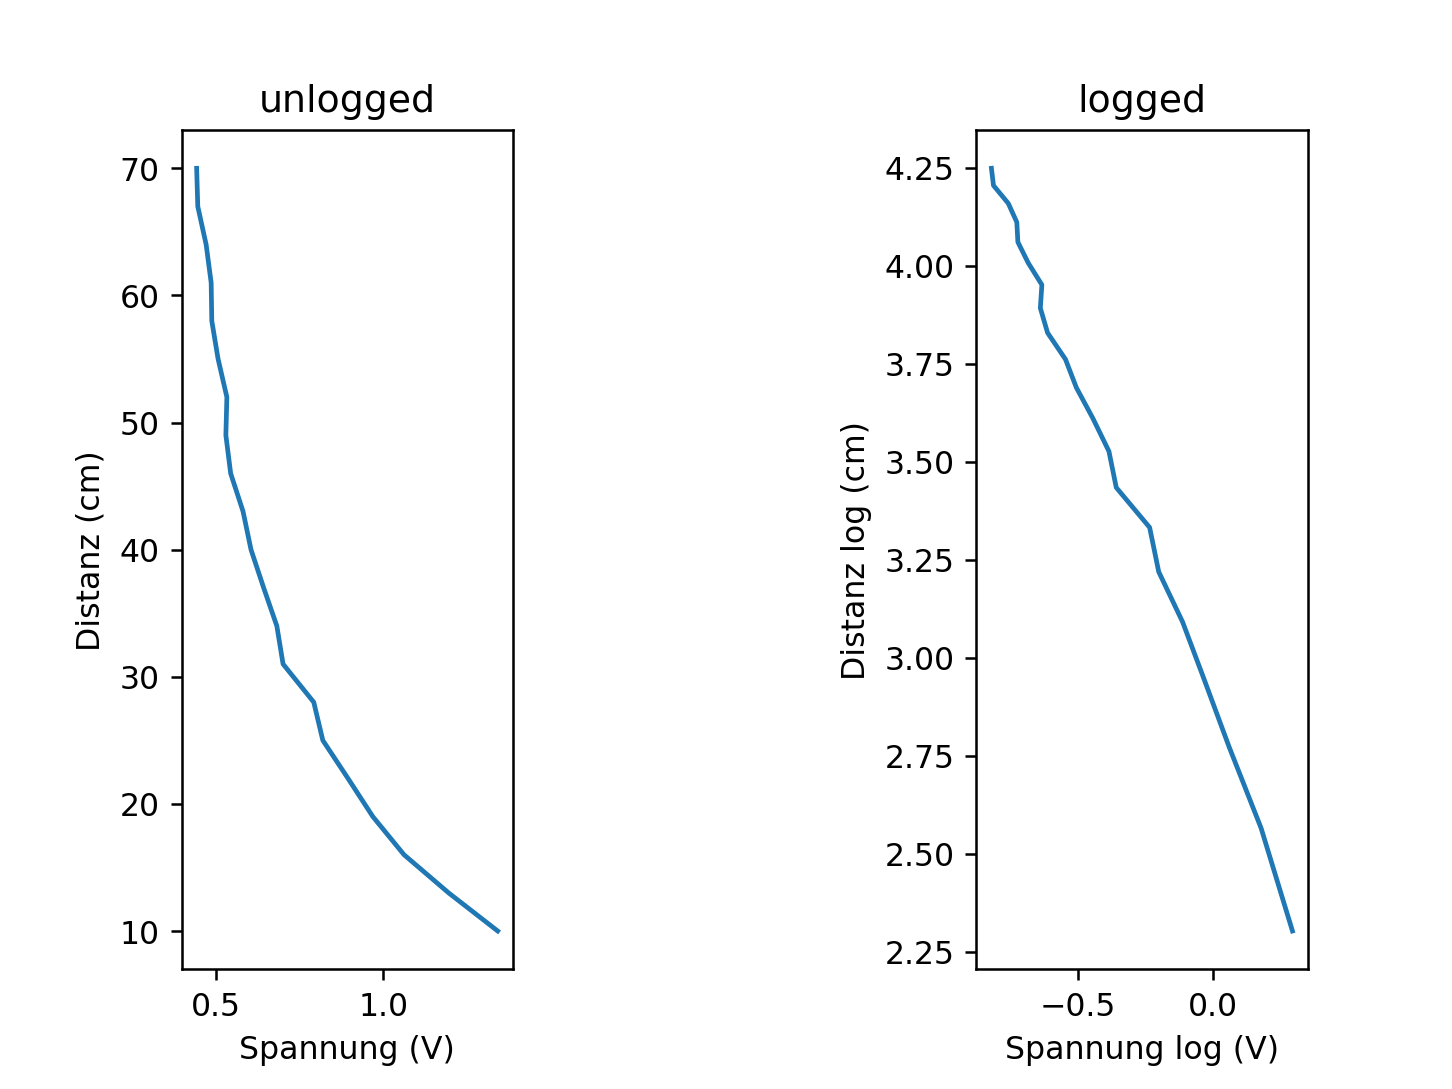
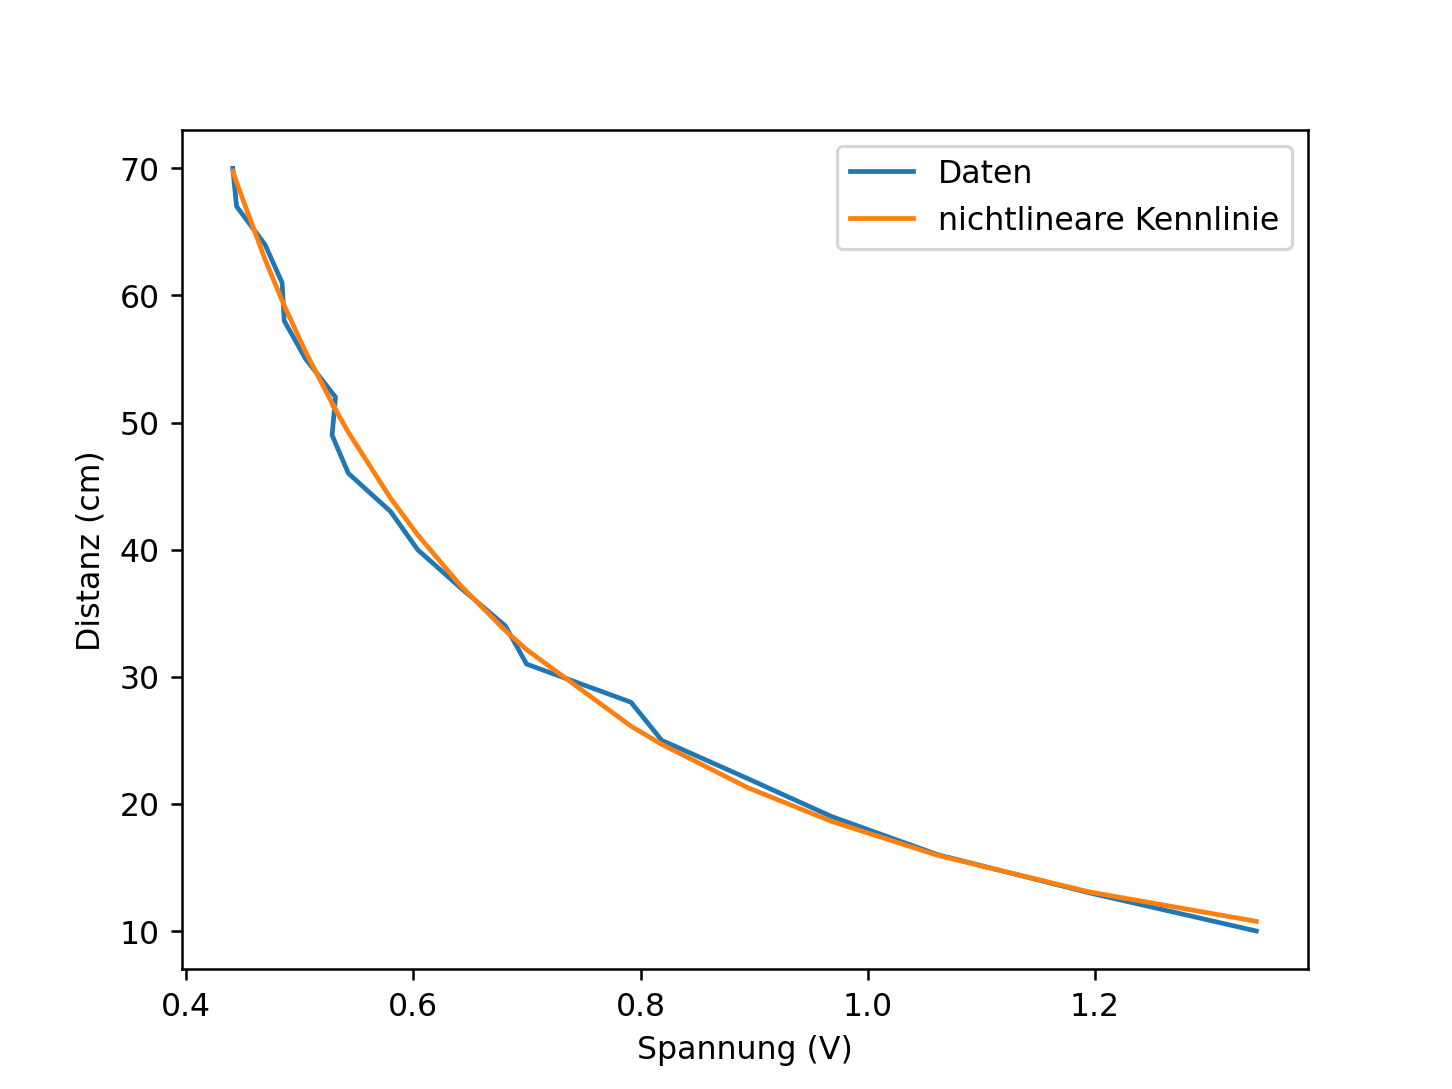
Versuch 1 Auswertung + lineare Regression

diff --git a/Versuch1/versuch1.py b/Versuch1/versuch1.py
@@ -1,6 +1,36 @@
 import csv
+import math
+
 import matplotlib.pyplot as plt
 import numpy as np
+import scipy
+
+
+def linregress(arr1, arr2):
+    # Convert to numpy array
+    nparr1 = np.asarray(arr1)
+    nparr2 = np.asarray(arr2)
+    return scipy.stats.linregress(nparr1, nparr2)
+
+
+def plotlinregress(narr1, narr2, lbl_x, lbl_y):
+    # Convert to numpy array
+    arr1 = np.asarray(narr1)
+    arr2 = np.asarray(narr2)
+
+    slope, intercept, r, p, stderr = linregress(arr1, arr2)
+    line = f'lineare Regressionslinie: y={slope:.2f}x+{intercept:.2f}'
+
+    # Punkte von Array und Reggressionslinie mit Legende plotten:
+    fig, ax = plt.subplots()
+    ax.plot(arr1, arr2, label='logarithmierte Daten')
+    ax.plot(arr1, intercept + slope * arr1, label=line)
+    ax.set_xlabel(lbl_x)
+    ax.set_ylabel(lbl_y)
+    ax.legend(facecolor='white')
+    plt.savefig('lineareAuswertung.png', dpi=227)
+    plt.show()
+
 
 start = 10
 steps = 3
@@ -38,22 +68,6 @@ while i <= end:
 
     i = i + steps
 
-
-fig, ax = plt.subplots(2, 1)
-#x = np.linspace(0, 8, 1000)
-
-#ax[0, 0].plot(x, np.sin(x), 'g') #row=0, col=0
-#ax[1, 0].plot(x, np.tan(x), 'k') #row=1, col=0
-
-# Plotten
-plt.subplot(1, 3, 1)
-plt.plot(avgarr, cm)
-plt.title("unlogged")
-plt.xlabel("Spannung (V)")
-plt.ylabel("Distanz (cm)")
-# plt.savefig('Unlogged.png', dpi=227)
-# plt.show()
-
 # Lineare Kennlinie
 cm_log = []
 volt_log = []
@@ -62,15 +76,21 @@ for i in range(len(cm)):
     cm_log.append(np.log(cm[i]))
     volt_log.append(np.log(avgarr[i]))
 
-# Plotten
-plt.subplot(1, 3, 3)
-plt.plot(volt_log, cm_log)
-plt.title("logged")
-plt.xlabel("Spannung log (V)")
-plt.ylabel("Distanz log (cm)")
+# nichtlineare Kennlinie
+y = []
+for x in avgarr:
+    y.append(pow(math.e, 2.87) * pow(x, -1.68))
 
+# plot Daten und nichtlineare Kennlinie
+fig, ax = plt.subplots()
+ax.plot(avgarr, cm, label='Daten')
+ax.plot(avgarr, y, label='nichtlineare Kennlinie')
+ax.set_xlabel("Spannung (V)")
+ax.set_ylabel("Distanz (cm)")
+ax.legend(facecolor='white')
 plt.savefig('auswertung.png', dpi=227)
-# plt.savefig('logged.png', dpi=227)
 plt.show()
 
-#fig.show()
+
+# plot lineare Kennlinie und logged Daten
+plotlinregress(volt_log, cm_log, "Spannung log (V)", "Distanz log (cm)")
